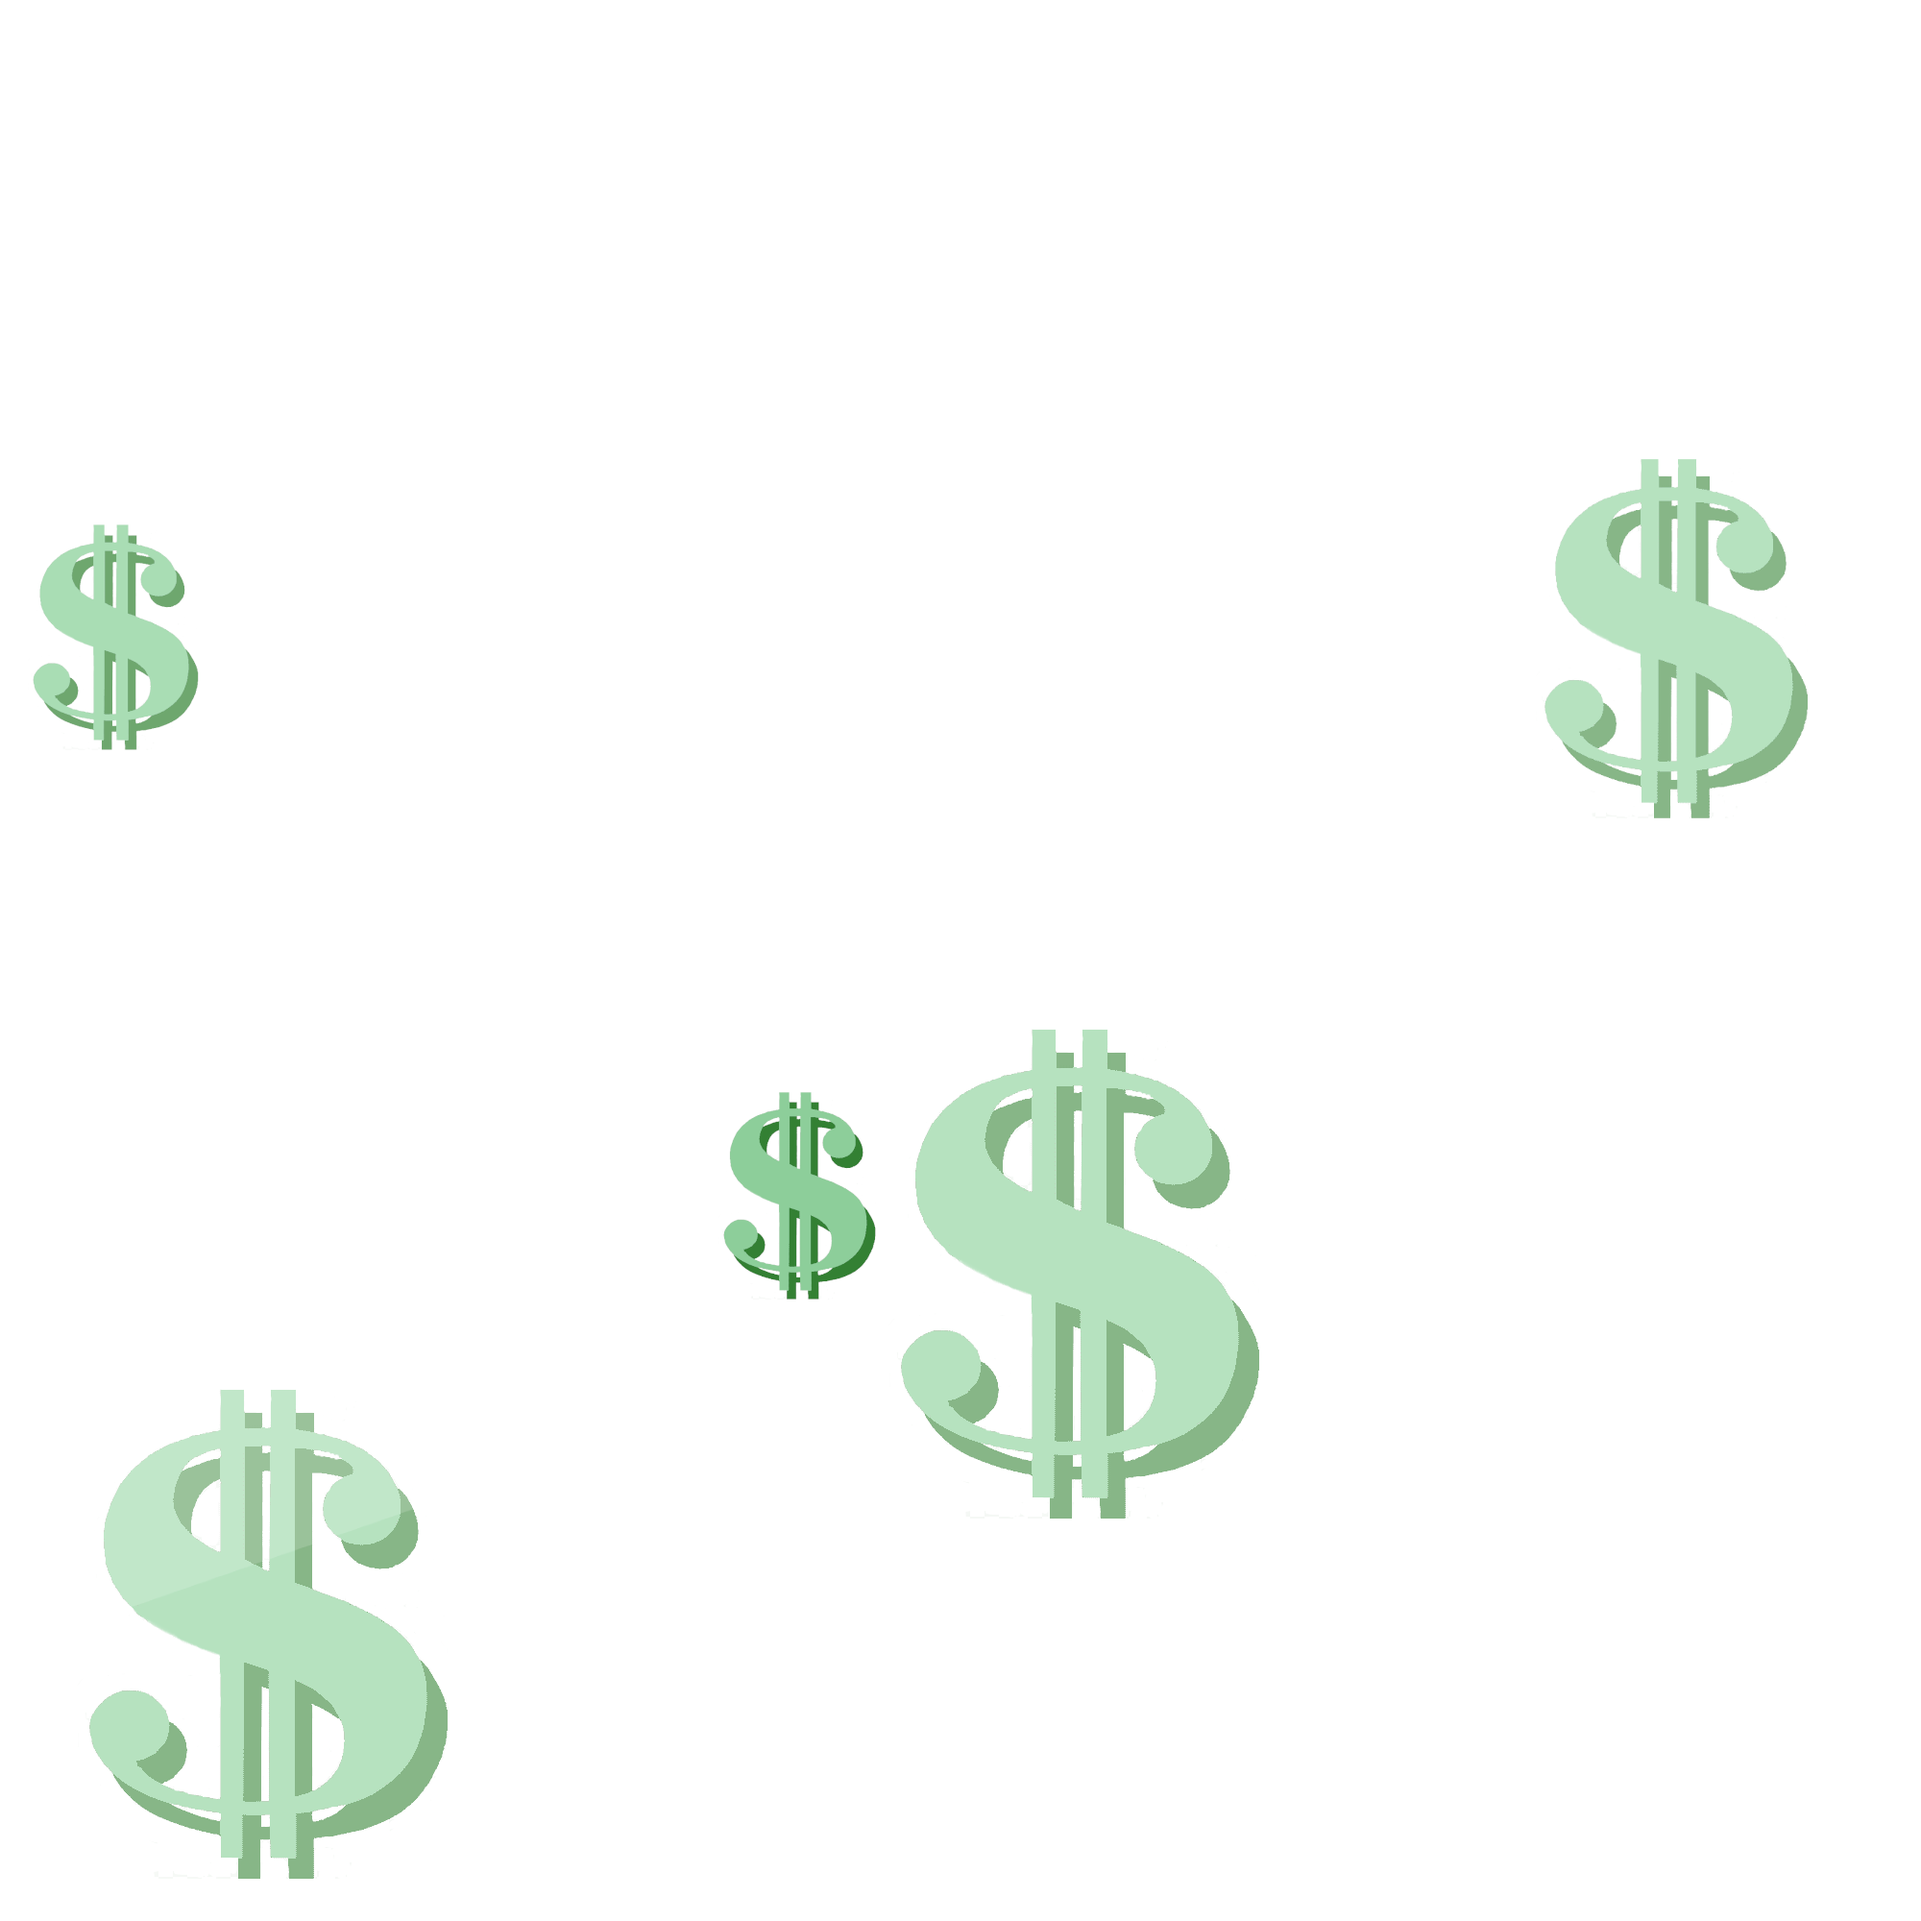
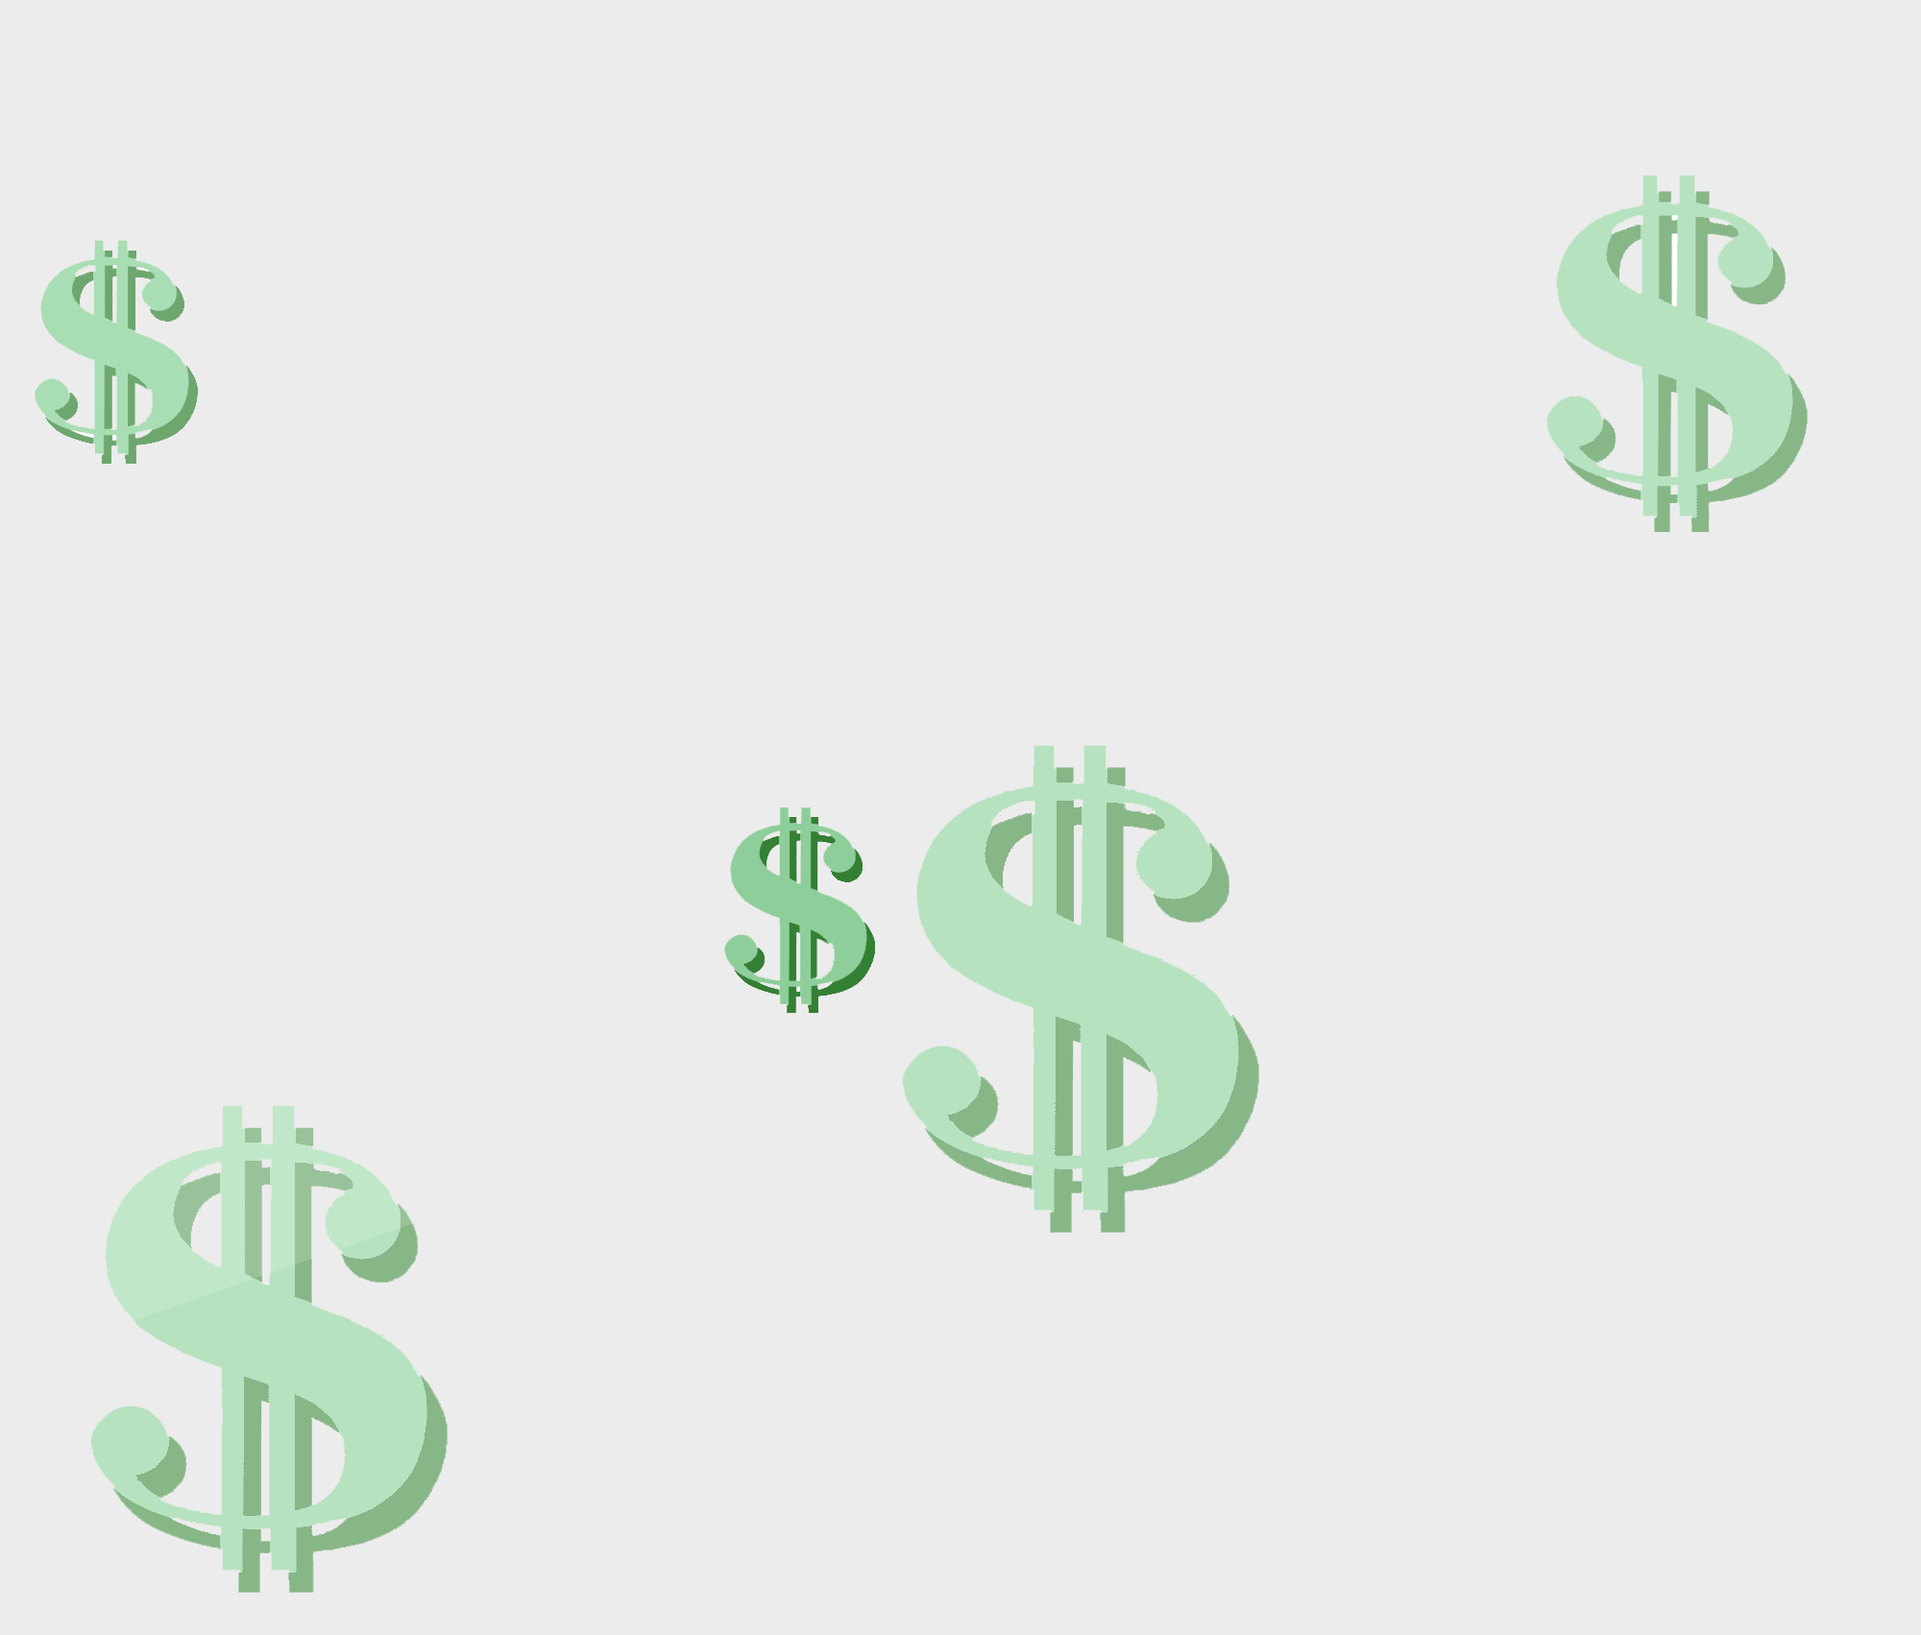
Add files via upload

diff --git a/1/index.html b/1/index.html
@@ -271,8 +271,8 @@ myContract.methods.balanceOf("0x01000b5fe61411c466b70631d7ff070187179bbf").call(
 
 <div class="section_about_fon">
   <div class="section_about_fon_img_class">
-      <!-- <img class="section_about_fotofon_1" src="img/money_fon2.png">
-      <img class="section_about_fotofon_2" src="img/smart-contracts.jpg"> -->
+      <!-- <img class="section_about_fotofon_1" src="img/money_fon2.png"> -->
+      <img class="section_about_fotofon_2" src="img/bg_3.png">
       <img class="section_about_fotofon_3" src="img/oblaka.jpg">
       
       <div class="section_about_content">

diff --git a/1/style.css b/1/style.css
@@ -848,18 +848,17 @@ h5 {
 }
 .section_about_fon_img_class .section_about_fotofon_2 {
   position: absolute;
-  width: 23%;
+  width: 80%;
   height: auto;
-  opacity: 1;
-  margin-top: 620px;
-  margin-left: 120px;
+  opacity: 0.4;
+  margin-left: 150px;
   margin-bottom: 300px;
 }
 .section_about_fotofon_3 {
   position: absolute;
   width: 100%;
   height: auto;
-  opacity: 0.15;
+  opacity: 0.3;
   margin-bottom: 300px;
 }
 .section_about_fon .section-title {
